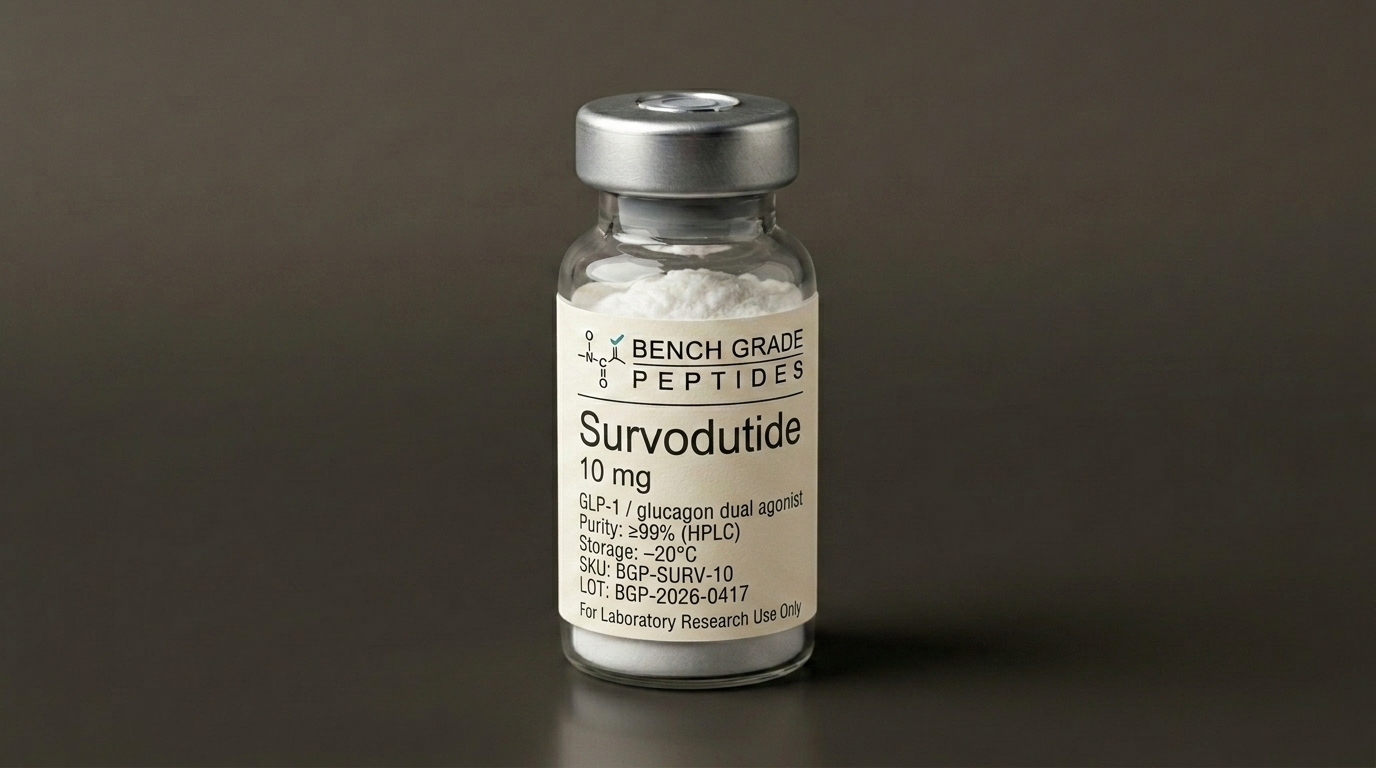
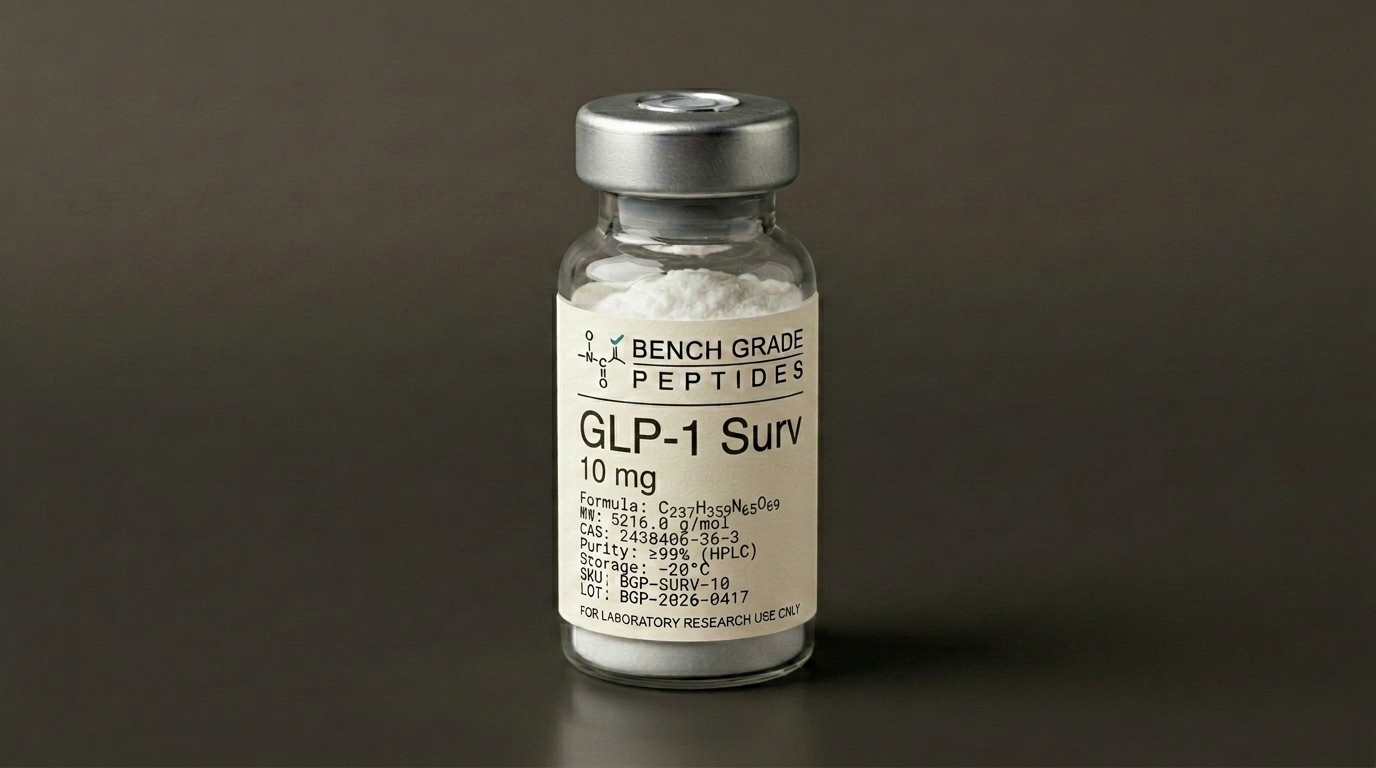
Rename GLP-1 class to coded names + regenerate 6 vials
Product display names and on-vial labels both change:
- Semaglutide  → GLP-1 S
- Tirzepatide  → GLP-1 T
- Retatrutide  → GLP-1 R
- Cagrilintide → GLP-1 C
- Mazdutide    → GLP-1 M
- Survodutide  → GLP-1 Surv

All six vial JPEGs regenerated via amplifier using the approved Adipotide
/ Glutathione / NAD+ renders as style references (raw.githubusercontent
URLs). New renders share the smooth dark-olive backdrop (fixes the
textured-rock backdrop that Retatrutide had before), keep the centered
cream label, and carry the compound's correct formula/MW/CAS in the
mono data block.

Slugs, URLs, SKUs, CAS numbers, and variant pricing are unchanged — only
the display name and label text differ.

Cache-bust bumped to ?v=3 so the browser refetches all vials; next.config
localPatterns updated to match.

Changed region(s): [[0.4062, 0.5312, 0.5938, 0.8438]]

diff --git a/src/lib/catalog/data.ts b/src/lib/catalog/data.ts
@@ -142,7 +142,7 @@ export const CATEGORIES: readonly CatalogCategory[] = [
  * public/brand/vials/<slug>.jpg.
  */
 function vialPath(slug: string): string {
-  return `/brand/vials/${slug}.jpg?v=2`;
+  return `/brand/vials/${slug}.jpg?v=3`;
 }
 
 /**
@@ -964,7 +964,7 @@ export const PRODUCTS: readonly CatalogProduct[] = [
   // ========== GLP-1 CLASS ==========
   {
     slug: "semaglutide",
-    name: "Semaglutide",
+    name: "GLP-1 S",
     category_slug: "glp-1",
     cas_number: "910463-68-2",
     molecular_formula: "C187H291N45O59",
@@ -983,7 +983,7 @@ export const PRODUCTS: readonly CatalogProduct[] = [
   },
   {
     slug: "tirzepatide",
-    name: "Tirzepatide",
+    name: "GLP-1 T",
     category_slug: "glp-1",
     cas_number: "2023788-19-2",
     molecular_formula: "C225H348N48O68",
@@ -1003,7 +1003,7 @@ export const PRODUCTS: readonly CatalogProduct[] = [
   },
   {
     slug: "retatrutide",
-    name: "Retatrutide",
+    name: "GLP-1 R",
     category_slug: "glp-1",
     cas_number: "2381089-83-2",
     molecular_formula: "C226H353N63O69",
@@ -1023,7 +1023,7 @@ export const PRODUCTS: readonly CatalogProduct[] = [
   },
   {
     slug: "cagrilintide",
-    name: "Cagrilintide",
+    name: "GLP-1 C",
     category_slug: "glp-1",
     cas_number: "2204783-15-1",
     molecular_formula: "C180H293N53O55",
@@ -1040,7 +1040,7 @@ export const PRODUCTS: readonly CatalogProduct[] = [
   },
   {
     slug: "mazdutide",
-    name: "Mazdutide",
+    name: "GLP-1 M",
     category_slug: "glp-1",
     cas_number: null,
     molecular_formula: null,
@@ -1056,7 +1056,7 @@ export const PRODUCTS: readonly CatalogProduct[] = [
   },
   {
     slug: "survodutide",
-    name: "Survodutide",
+    name: "GLP-1 Surv",
     category_slug: "glp-1",
     cas_number: null,
     molecular_formula: null,

diff --git a/next.config.ts b/next.config.ts
@@ -4,7 +4,7 @@ const nextConfig: NextConfig = {
   images: {
     localPatterns: [
       { pathname: "/**", search: "" },
-      { pathname: "/brand/vials/**", search: "?v=2" },
+      { pathname: "/brand/vials/**", search: "?v=3" },
     ],
   },
 };
